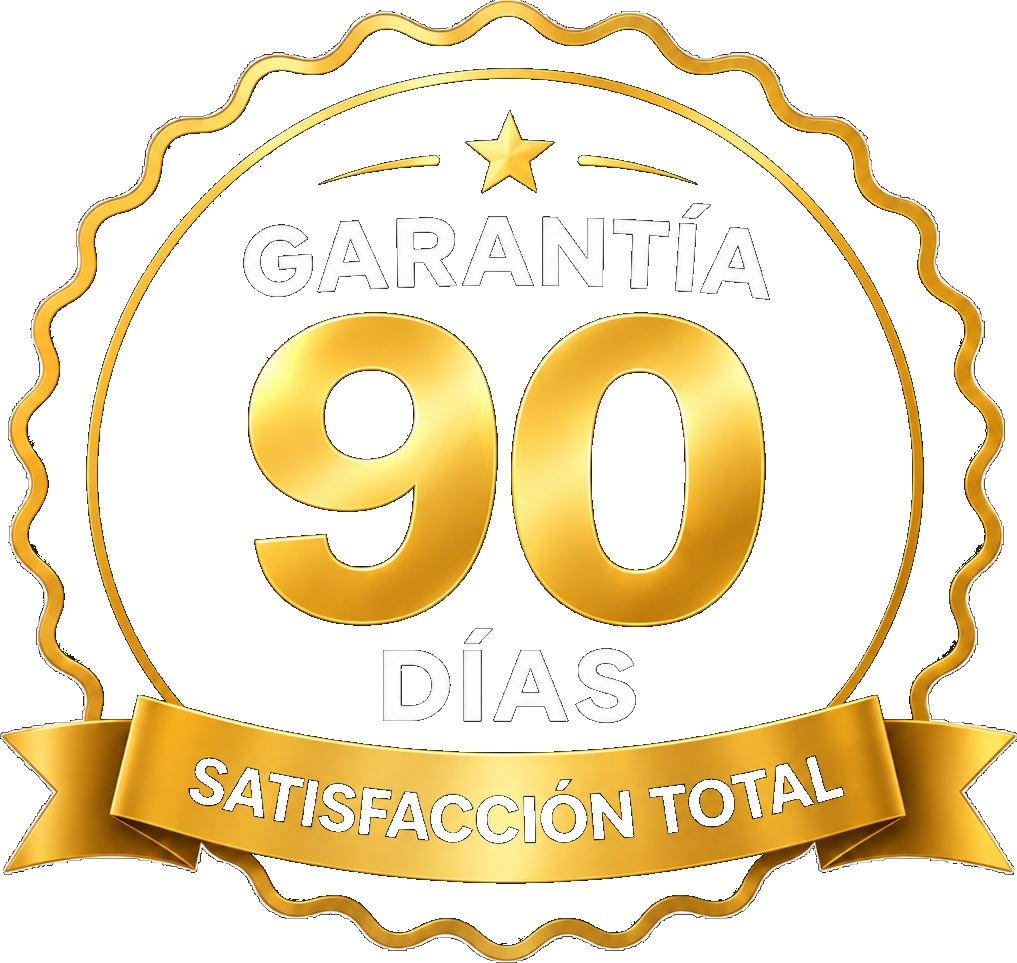
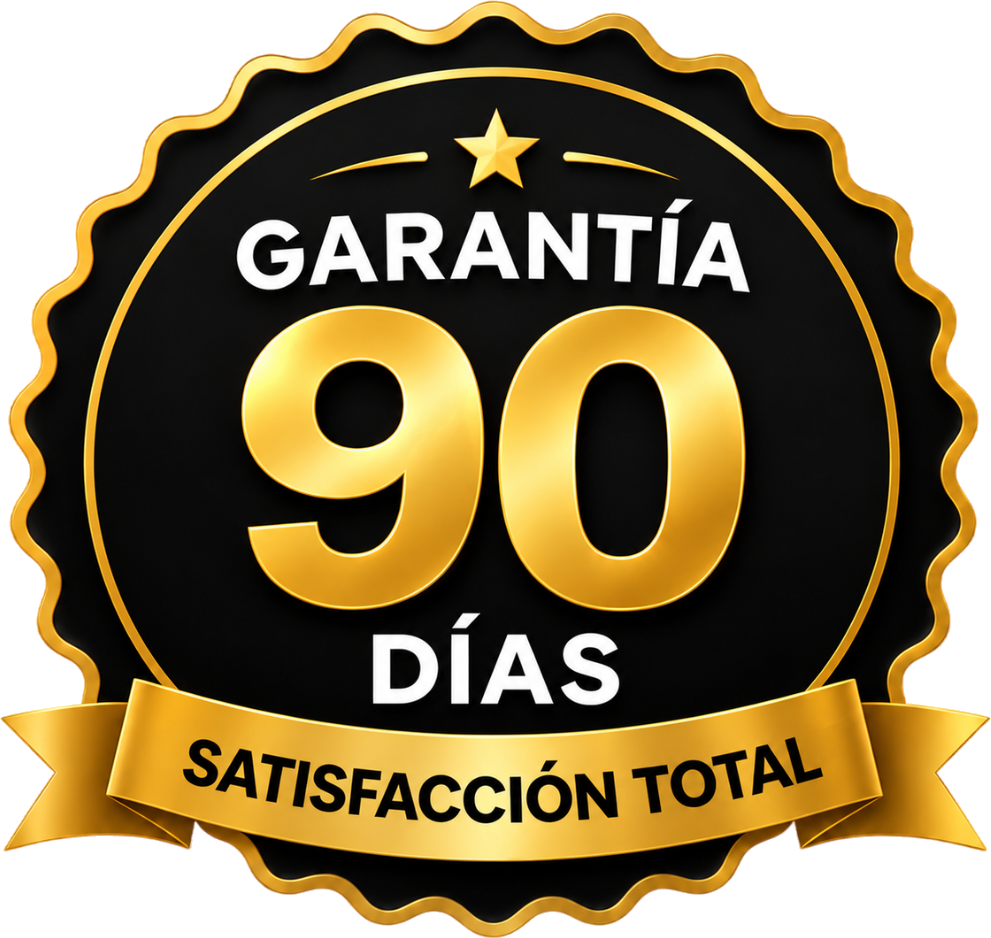
Update 90-day guarantee badge artwork.

diff --git a/yesnap-creatine-women-panama.html b/yesnap-creatine-women-panama.html
@@ -364,7 +364,7 @@
 <section class="guarantee" id="garantia">
   <div class="shell">
     <div class="guarantee-inner">
-      <img class="guarantee-badge" src="/images/garantia-90-dias.png?v=20261025l" alt="Garantía de 90 días, satisfacción total" loading="lazy" width="1024" height="1024" decoding="async">
+      <img class="guarantee-badge" src="/images/garantia-90-dias.png?v=20261025m" alt="Garantía de 90 días, satisfacción total" loading="lazy" width="1024" height="1024" decoding="async">
       <div class="guarantee-copy">
         <h2>Pruébalo sin presión</h2>
         <p>Queremos que descubras si Peach Pout encaja en tu rutina — sin riesgo ni pagos adelantados.</p>
